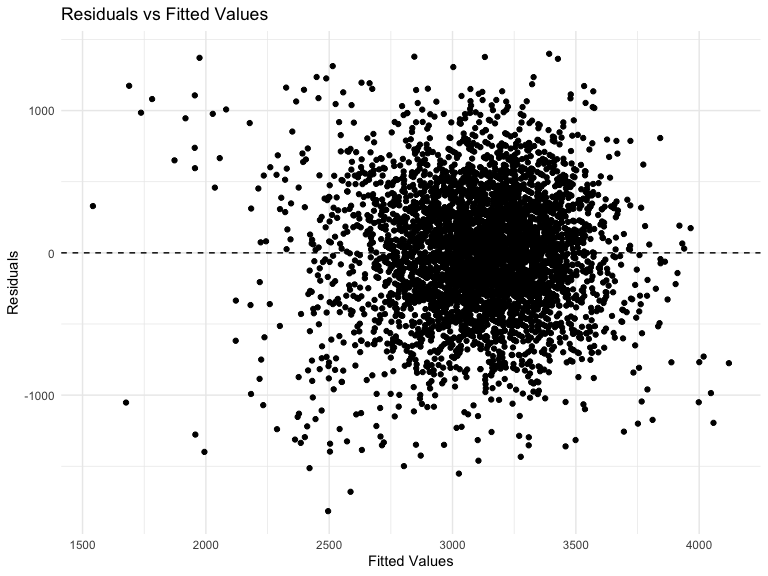
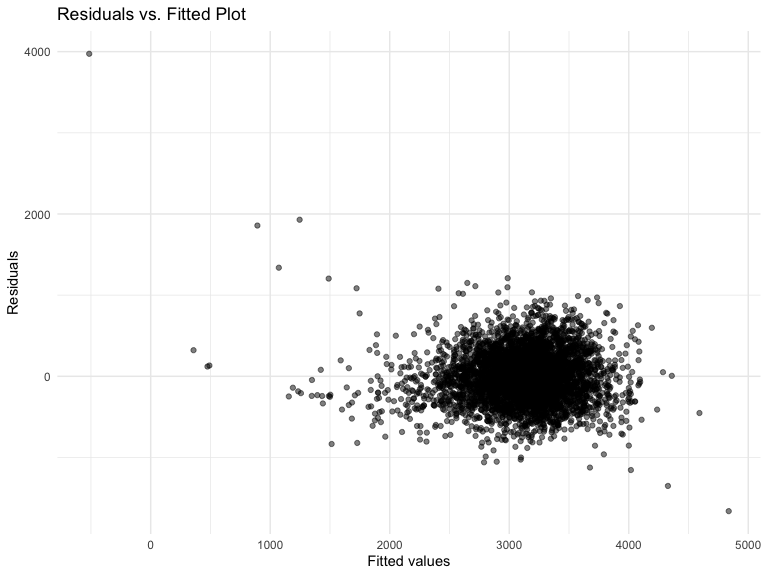
update interpretation for problem 3

diff --git a/p8105_hw6_xz3173.md b/p8105_hw6_xz3173.md
@@ -397,44 +397,18 @@ birth_weight_df =
 
 ``` r
 # Convert Numeric to Factor
-birth_weight_df |>
+birth_weight_df = birth_weight_df |>
   mutate(
     babysex = as.factor(babysex),
     frace = as.factor(frace),
     mrace = as.factor(mrace),
     malform = as.factor(malform)
   )
-```
 
-    ## # A tibble: 4,342 × 20
-    ##    babysex bhead blength   bwt delwt fincome frace gaweeks malform menarche
-    ##    <fct>   <dbl>   <dbl> <dbl> <dbl>   <dbl> <fct>   <dbl> <fct>      <dbl>
-    ##  1 2          34      51  3629   177      35 1        39.9 0             13
-    ##  2 1          34      48  3062   156      65 2        25.9 0             14
-    ##  3 2          36      50  3345   148      85 1        39.9 0             12
-    ##  4 1          34      52  3062   157      55 1        40   0             14
-    ##  5 2          34      52  3374   156       5 1        41.6 0             13
-    ##  6 1          33      52  3374   129      55 1        40.7 0             12
-    ##  7 2          33      46  2523   126      96 2        40.3 0             14
-    ##  8 2          33      49  2778   140       5 1        37.4 0             12
-    ##  9 1          36      52  3515   146      85 1        40.3 0             11
-    ## 10 1          33      50  3459   169      75 2        40.7 0             12
-    ## # ℹ 4,332 more rows
-    ## # ℹ 10 more variables: mheight <dbl>, momage <dbl>, mrace <fct>, parity <dbl>,
-    ## #   pnumlbw <dbl>, pnumsga <dbl>, ppbmi <dbl>, ppwt <dbl>, smoken <dbl>,
-    ## #   wtgain <dbl>
-
-``` r
 # Check for missing data
-colSums(is.na(birth_weight_df))
+# colSums(is.na(birth_weight_df))
+# There are no missing data
 ```
-
-    ##  babysex    bhead  blength      bwt    delwt  fincome    frace  gaweeks 
-    ##        0        0        0        0        0        0        0        0 
-    ##  malform menarche  mheight   momage    mrace   parity  pnumlbw  pnumsga 
-    ##        0        0        0        0        0        0        0        0 
-    ##    ppbmi     ppwt   smoken   wtgain 
-    ##        0        0        0        0
 
 Propose a regression model for birthweight. This model may be based on a
 hypothesized structure for the factors that underly birthweight, on a
@@ -448,31 +422,31 @@ this plot.
 model_1 = lm(bwt ~ blength + delwt + gaweeks + ppbmi + smoken, data = birth_weight_df)
 ```
 
+**This `model_1` incorporates a mix of baby’s measurements at birth and
+maternal factors. The inclusion of maternal smoking (`smoken`) and
+pre-pregnancy BMI (`ppbmi`) could be particularly insightfful, as they
+are controllable factors that may significantly birth weight.**
+
 ``` r
 # Add predictions and residuals
 model_1_df = birth_weight_df |>
   add_predictions(model_1) |>
-  add_residuals(model_1) |>
+  add_residuals(model_1)
 
 # Plot of residuals against fitted value
+model_1_df |>
   ggplot(aes(x = pred, y = resid)) +
   geom_point(alpha = .5) +
-  geom_line(aes(y = pred), color = "red") +
-  facet_grid(~model)
   labs(x = "Fitted values", y = "Residuals", title = "Residuals vs. Fitted Plot")
 ```
 
-    ## $x
-    ## [1] "Fitted values"
-    ## 
-    ## $y
-    ## [1] "Residuals"
-    ## 
-    ## $title
-    ## [1] "Residuals vs. Fitted Plot"
-    ## 
-    ## attr(,"class")
-    ## [1] "labels"
+<img src="p8105_hw6_xz3173_files/figure-gfm/unnamed-chunk-8-1.png" width="90%" />
+
+**The plot of residuals against fitted values for `model_1` did not show
+any clear patterns, suggesting that the model’s assumptions(linearity,
+homoscedasticity) were reasonably met. However, some outliers were
+noted, indicating specific cases where the model’s predictions were less
+accurate.**
 
 Compare your model to two others:
 
@@ -535,3 +509,32 @@ cv_df |>
 ```
 
 <img src="p8105_hw6_xz3173_files/figure-gfm/unnamed-chunk-13-1.png" width="90%" />
+
+The violin plot provides a visual comparison of the RMSE distribution
+across models. A model with consistently lower RMSE values across
+cross-validation folds is generally preferred. However, also consider
+the spread of the errors – a tighter distribution might be favorable.
+
+**The `model_3` shows the lowest RMSE values on average, suggesting that
+it has the best predictive accuracy among the three models. This
+indicates that the combination of head circumference, length, sex, and
+especially their interactions, is important in predicting birth weight.
+the interactions might capture complex relationships that are
+significant in determining birth weight.**
+
+**The `model_1` and `model_2`, while having higher RMSE values compared
+to `model_3`, exhibit a tighter distribution of these values. This
+suggests that these models, despite being simpler, offer more consistent
+predictions across different subsets of data. The tighter distribution
+points to reliability, as the variation in their predictive performance
+is less.**
+
+**The `model_3`, despite its complexity, provides better average
+predictions but possibly with more variability (wider RMSE
+distribution). On the other hand, the `model_1` and `model_2`, while
+simpler and with slightly less predictive accuracy, offer more
+consistent predictions.**
+
+**In conclusion, `model_3` would be preferred if the primary goal is to
+minimize prediction error. `model_1` or `model_2` might be more suitable
+if consistency and interpretability are more critical.**
